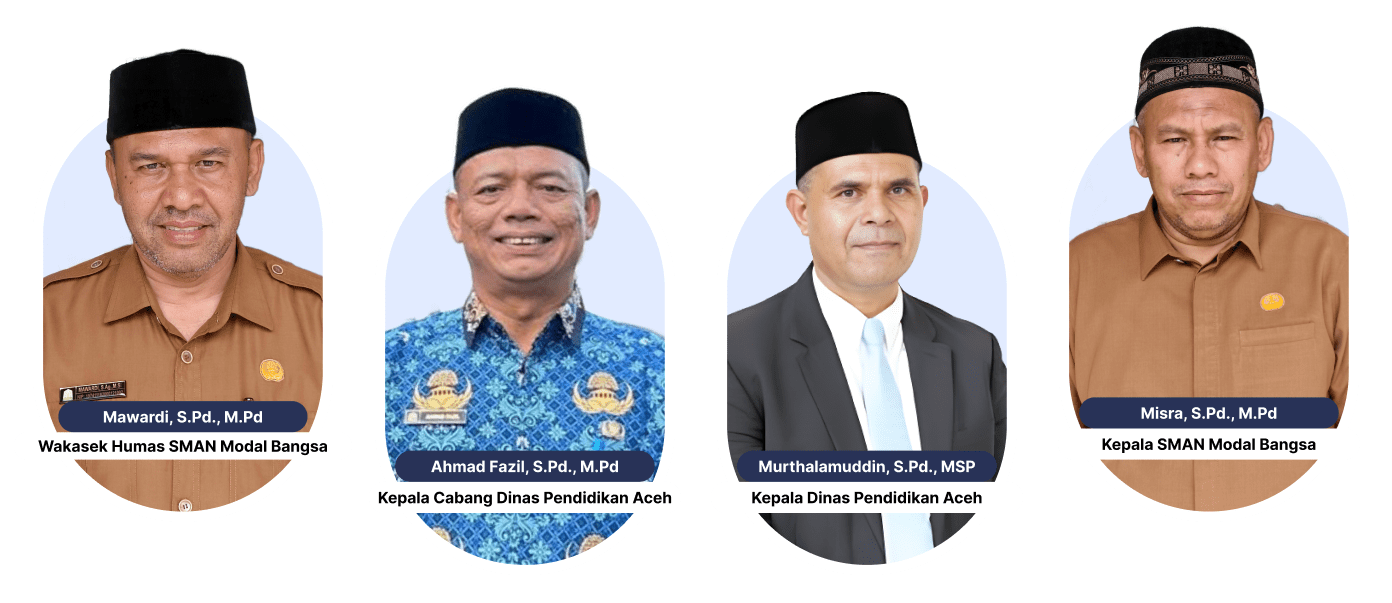
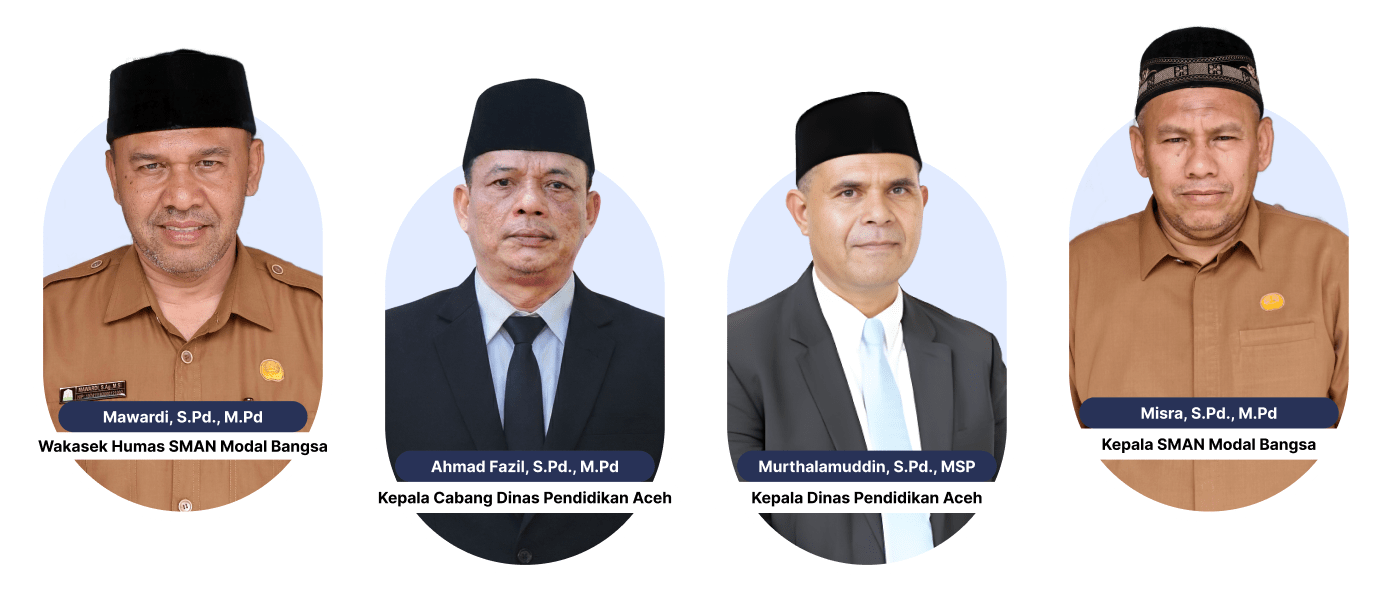
update register page, hero section, tahun ajaran default

Changed region(s): [[0.278, 0.1194, 0.4943, 0.7761], [0.278, 0.8358, 0.4634, 0.9552]]

diff --git a/src/pages/RegisterPage.tsx b/src/pages/RegisterPage.tsx
@@ -339,7 +339,7 @@ const RegisterPage: React.FC = () => {
                 Selamat Datang di SPMB Online
               </h1>
               <p className="text-lg text-gray-600">
-                SMAN Modal Bangsa membuka pendaftaran peserta didik baru tahun ajaran 2025/2026
+                SMAN Modal Bangsa membuka pendaftaran peserta didik baru tahun ajaran {ppdbSettings?.academicYear || '2026/2027'}
               </p>
             </div>
 
@@ -401,12 +401,12 @@ const RegisterPage: React.FC = () => {
               {/* Header - Ukuran font lebih kecil di mobile */}
               <div className="text-center mb-4 md:mb-8">
                 <h2 className="text-xl md:text-2xl font-bold text-gray-900 mb-1 md:mb-2">
-                  {isFirstAdmin ? 'Setup Admin' : 'Daftar Akun PPDB'}
+                  {isFirstAdmin ? 'Setup Admin' : 'Daftar Akun SPMB'}
                 </h2>
                 <p className="text-xs md:text-sm text-gray-600">
                   {isFirstAdmin 
                     ? 'Buat akun admin pertama untuk mengelola sistem'
-                    : 'Lengkapi data berikut untuk membuat akun PPDB'}
+                    : 'Lengkapi data berikut untuk membuat akun SPMB'}
                 </p>
               </div>
 
@@ -618,7 +618,7 @@ const RegisterPage: React.FC = () => {
                         {isFirstAdmin ? 'Membuat Admin...' : 'Mendaftar...'}
                       </div>
                     ) : (
-                      isFirstAdmin ? 'Buat Admin' : 'Daftar PPDB'
+                      isFirstAdmin ? 'Buat Admin' : 'Daftar SPMB'
                     )}
                   </Button>
 
@@ -691,7 +691,7 @@ const RegisterPage: React.FC = () => {
           </h3>
           <div className="text-gray-600 space-y-4 mb-6">
             <p>
-              Akun PPDB Anda telah berhasil dibuat.
+              Akun SPMB Anda telah berhasil dibuat.
             </p>
             {/* <div className="bg-yellow-50 p-4 rounded-lg text-left">
               <p className="text-yellow-800 font-medium mb-2">Penting!</p>
@@ -707,7 +707,7 @@ const RegisterPage: React.FC = () => {
               onClick={() => navigate('/ppdb/form')}
               className="bg-blue-600 hover:bg-blue-700 text-white"
             >
-              Lanjut ke Form PPDB
+              Lanjut ke Form SPMB
             </Button>
           </div>
         </div>

diff --git a/src/components/landingpage/Header.tsx b/src/components/landingpage/Header.tsx
@@ -75,13 +75,33 @@ const Header: React.FC = () => {
         <div className="relative">
           <nav className="flex items-center justify-between">
             {/* Brand Name */}
-            <Link to="/">
-              {/* <span className={`
-                font-bold text-lg transition-colors duration-300
-                ${isTransparent ? 'text-white' : 'text-blue-600'}
-              `}>
-                SMAN Modal Bangsa
-              </span> */}
+            <Link to="/" className="flex items-center gap-3">
+              <img
+                src="/images/mosa.png"
+                alt="Logo SMAN Modal Bangsa"
+                className={`
+                  w-10 h-10 object-contain transition-opacity duration-300
+                  ${isTransparent ? 'opacity-100' : 'opacity-90'}
+                `}
+              />
+              <div className="leading-tight">
+                <span
+                  className={`
+                    block font-bold text-base transition-colors duration-300
+                    ${isTransparent ? 'text-white' : 'text-blue-700'}
+                  `}
+                >
+                  SMAN Modal Bangsa
+                </span>
+                <span
+                  className={`
+                    block text-xs font-medium opacity-80 transition-colors duration-300
+                    ${isTransparent ? 'text-white' : 'text-gray-600'}
+                  `}
+                >
+                  Sekolah Para Juara
+                </span>
+              </div>
             </Link>
 
             {/* Desktop Navigation */}

diff --git a/src/components/landingpage/InfoPPDBSection.tsx b/src/components/landingpage/InfoPPDBSection.tsx
@@ -127,7 +127,7 @@ const InfoPPDBSection: React.FC<InfoPPDBSectionProps> = ({ settings }) => {
             <h2 className="text-3xl md:text-5xl font-bold text-gray-900 mb-4 md:mb-6">
               Informasi Jalur SPMB Online {' '}
               <span className="text-transparent bg-clip-text bg-gradient-to-r from-blue-600 to-blue-400">
-                {settings?.academicYear || '2025/2026'}
+                {settings?.academicYear || '2026/2027'}
               </span>
             </h2>
             <p className="text-lg md:text-xl text-gray-600 max-w-2xl mx-auto">
@@ -343,7 +343,7 @@ const InfoPPDBSection: React.FC<InfoPPDBSectionProps> = ({ settings }) => {
                     {/* Info tambahan */}
                     <div className="text-xs text-white/90 bg-white/10 backdrop-blur-sm rounded-xl p-3 mt-auto">
                       <p className="font-medium">Catatan:</p>
-                      <p>Keputusan panitia PPDB bersifat final. Peserta yang tidak melakukan daftar ulang dianggap mengundurkan diri.</p>
+                      <p>Keputusan panitia SPMB SMAN Modal Bangsa bersifat final. Peserta yang tidak melakukan daftar ulang dianggap mengundurkan diri.</p>
                     </div>
                   </div>
                 </div>

diff --git a/src/components/landingpage/Footer.tsx b/src/components/landingpage/Footer.tsx
@@ -169,14 +169,14 @@ const Footer: React.FC = () => {
         <div className="border-t border-gray-700 py-6">
           <div className="flex flex-col md:flex-row justify-between items-center space-y-4 md:space-y-0">
             <p className="text-sm text-gray-400">
-              &copy; {currentYear} SMAN Modal Bangsa. All rights reserved.
+              &copy; {currentYear} Alfaruq Asri, S.Pd - SMAN Modal Bangsa. All rights reserved.
             </p>
             <div className="flex space-x-6">
-              <Link to="/privacy" className="text-sm text-gray-400 hover:text-white transition-colors duration-200">
-                Privacy Policy
+              <Link to="/info-spmb" className="text-sm text-gray-400 hover:text-white transition-colors duration-200">
+                Syarat & Ketentuan
               </Link>
-              <Link to="/terms" className="text-sm text-gray-400 hover:text-white transition-colors duration-200">
-                Terms of Service
+              <Link to="/info-spmb" className="text-sm text-gray-400 hover:text-white transition-colors duration-200">
+                Help Desk
               </Link>
             </div>
           </div>

diff --git a/src/pages/PPDBFormPage.tsx b/src/pages/PPDBFormPage.tsx
@@ -2330,7 +2330,7 @@ const PPDBFormPage: React.FC = () => {
               <div className="flex flex-col md:flex-row justify-between items-start gap-4">
                 <div className="flex-1 min-w-0 space-y-2">
                   <h1 className="text-xl md:text-2xl font-bold text-gray-900 mb-1">
-                    Formulir Pendaftaran PPDB
+                    Formulir Pendaftaran SPMB
                   </h1>
                   <h2 className="text-base md:text-lg text-gray-600">
                     SMAN Modal Bangsa Tahun Ajaran {getAcademicYear()}

diff --git a/src/components/landingpage/HeroSection.tsx b/src/components/landingpage/HeroSection.tsx
@@ -110,7 +110,7 @@ const HeroSection: React.FC<HeroSectionProps> = ({ settings }) => {
                 className="bg-blue-600 hover:bg-blue-700 text-white border-2 border-blue-600 px-4 md:px-5 py-2 md:py-2.5 text-sm md:text-base font-medium rounded-lg shadow-lg transition-all duration-300"
                 ariaLabel="Daftar SPMB"
               >
-                Daftar
+                Daftar SPMB
               </ActionButton>
 
               <ActionButton
